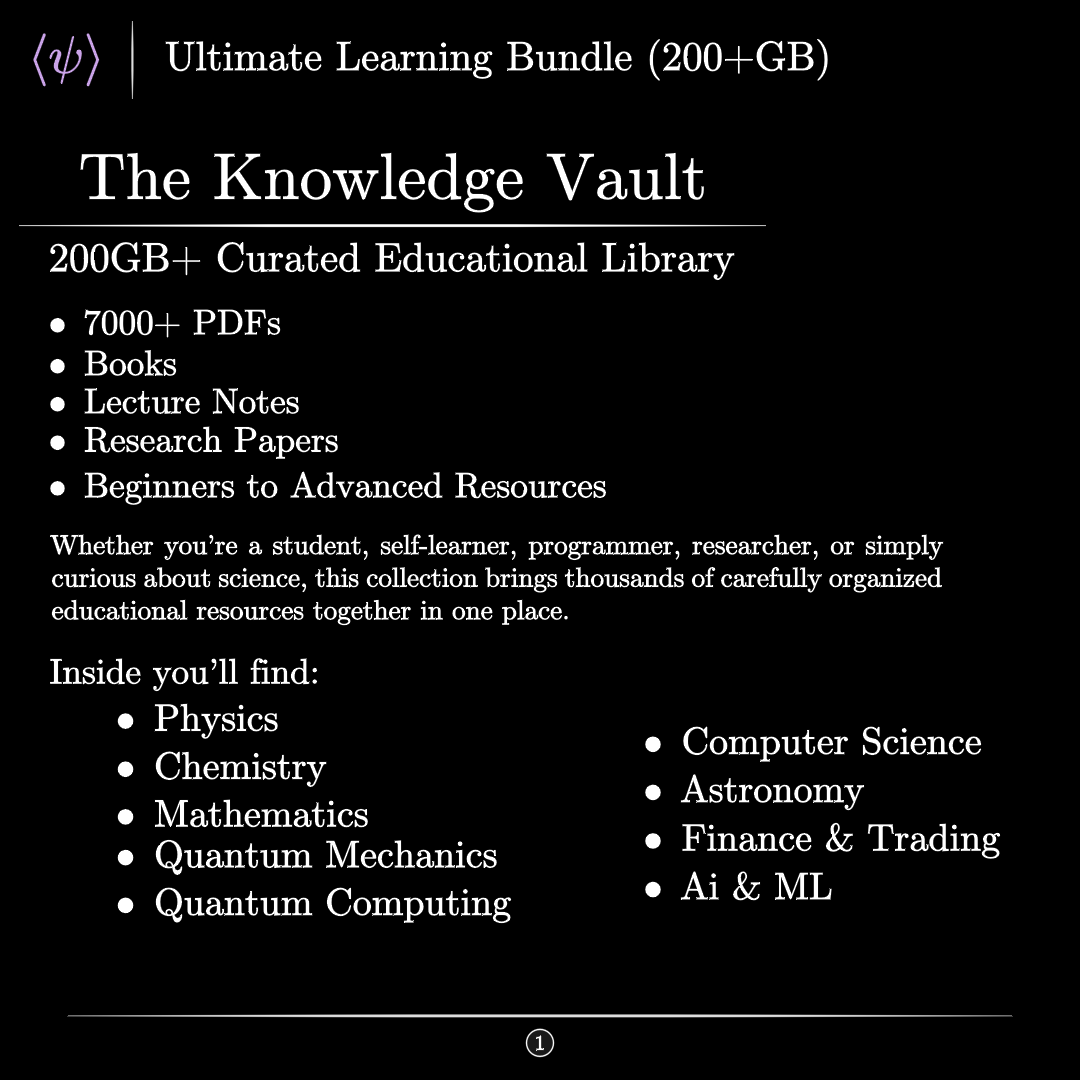
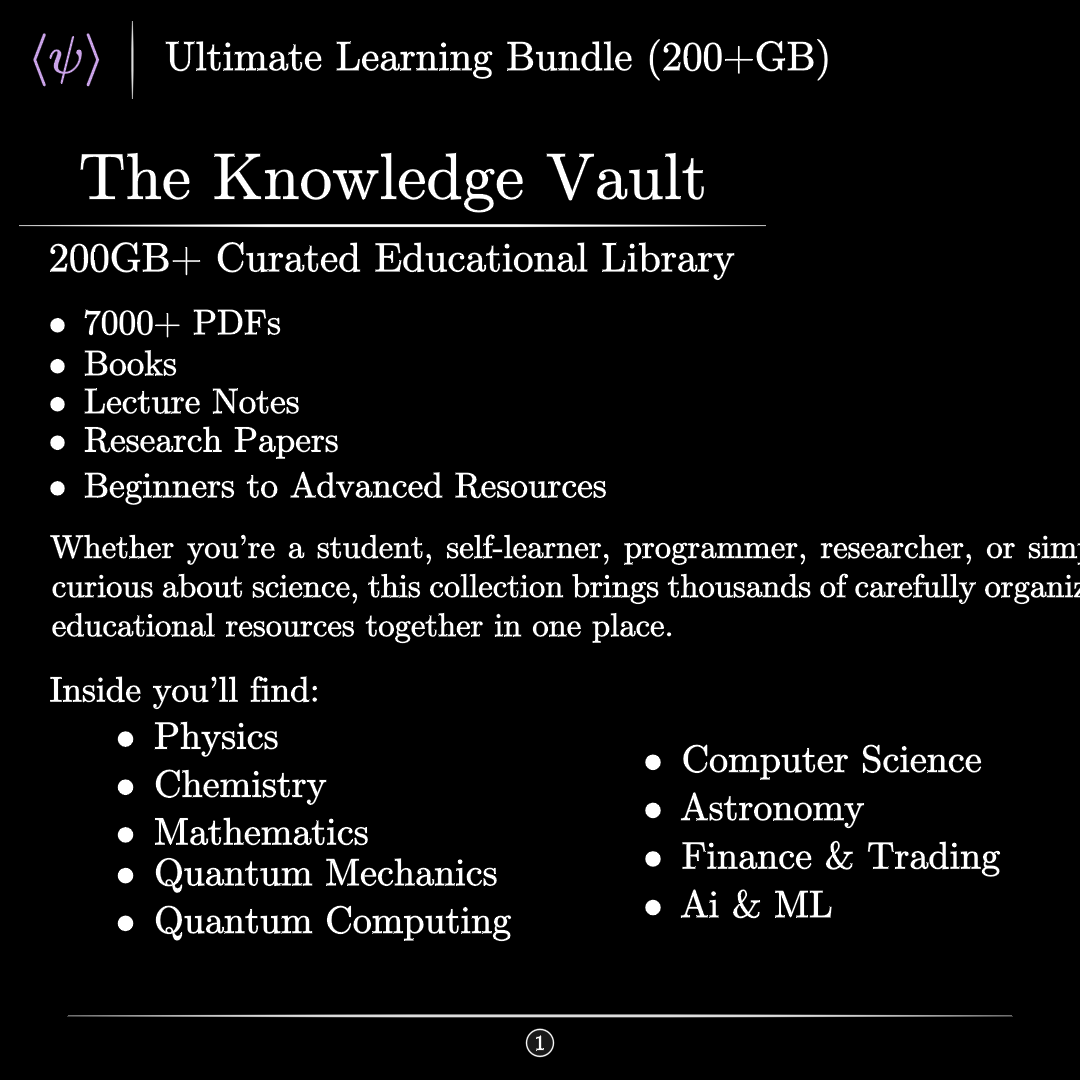
f

Changed region(s): [[0.0306, 0.4889, 1.0, 0.8861], [0.5806, 0.6722, 0.9472, 0.8556]]

diff --git a/test.py b/test.py
@@ -76,7 +76,7 @@ class Paid(PaidTemplate):
             educational resources together in one place.
             \end{minipage}
             """,
-            font_size=20,
+            font_size=24,
         )
         cont2.next_to(itm, DOWN, buff=MED_LARGE_BUFF * 0.45, aligned_edge=LEFT)
         self.add(cont2)
